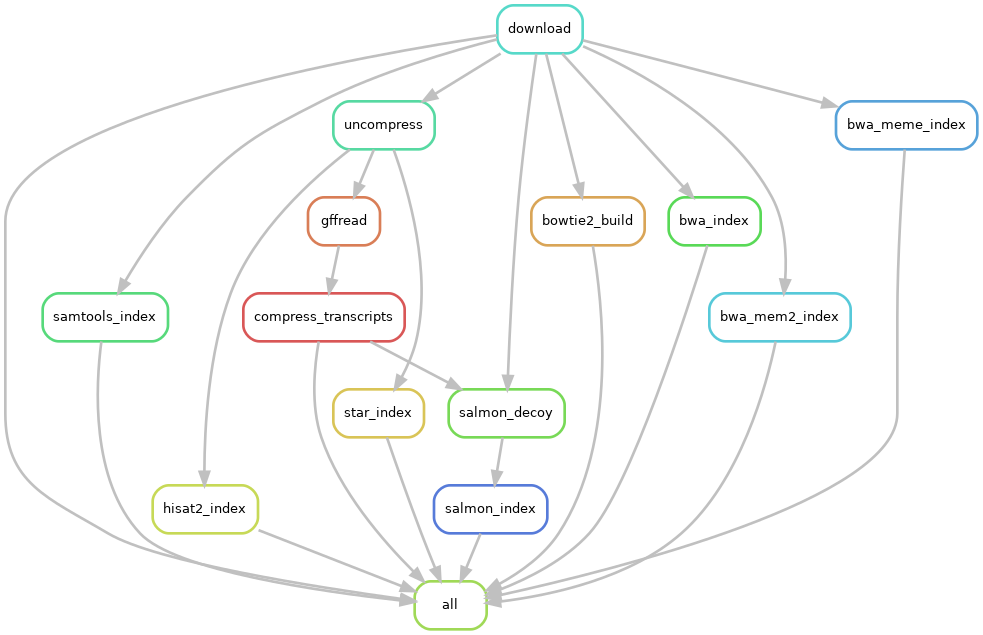
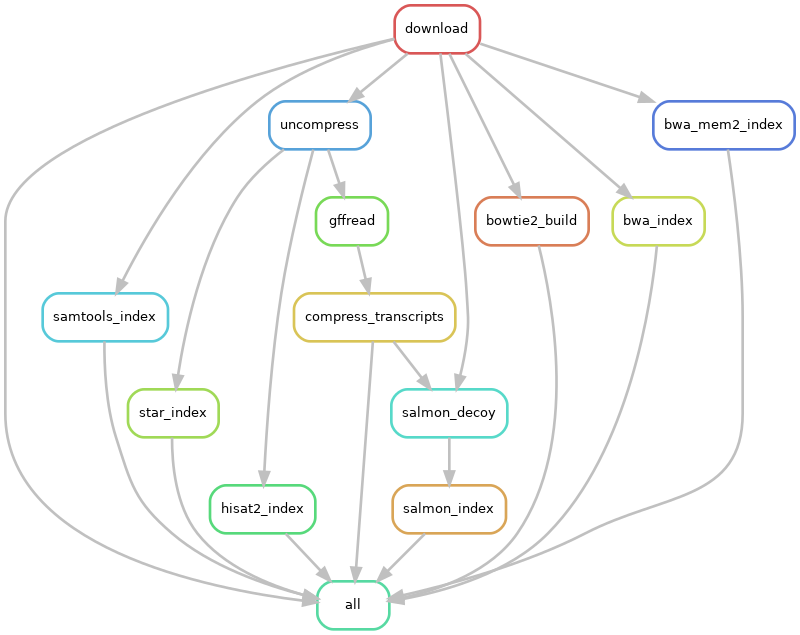
remove bwa-meme due to bug in wrapper

diff --git a/config/README.md b/config/README.md
@@ -75,7 +75,6 @@ And the following directories, containing index files for the respective softwar
 - `bowtie2`
 - `bwa`
 - `bwa-mem2`
-- `bwa-meme`
 - `hisat2`
 - `salmon`
 - `star`
